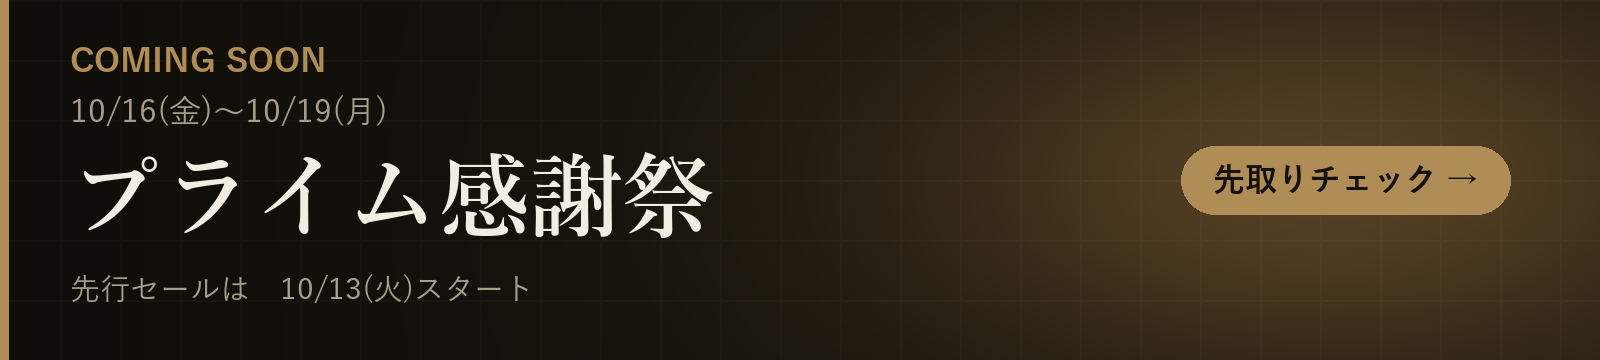
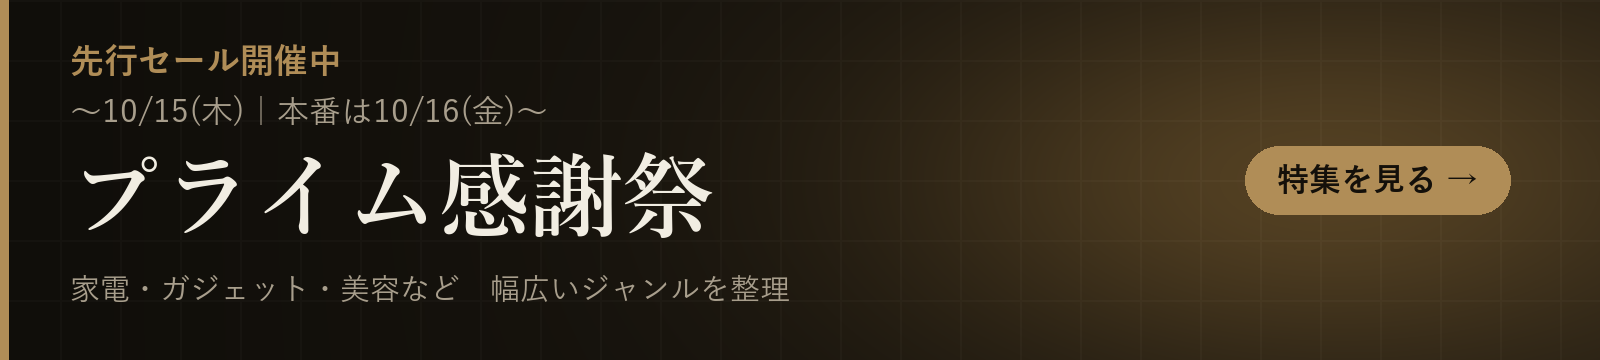
Prime phase: presale (先行セール開催中) from 10/13 00:00

diff --git a/feature-prime-appreciation-202610.html b/feature-prime-appreciation-202610.html
@@ -5,7 +5,7 @@
 <script>(function(){try{var t=localStorage.getItem('gearnote-theme');if(t==='light'||t==='dark'){document.documentElement.setAttribute('data-theme',t);}}catch(e){}})();</script>
 <meta name="viewport" content="width=device-width, initial-scale=1.0">
 <title>Amazonプライム感謝祭特集｜GEARNOTE</title>
-<meta name="description" content="Amazon「プライム感謝祭」は2026年10月16日(金)〜19日(月)に開催予定（先行セールは10月13日(火)から）。今のうちにやっておくこと、過去の開催日、家電・ガジェット・美容・日用品・食品・ベビー・ペットなど幅広いジャンルの商品をGEARNOTEがピックアップして紹介します。">
+<meta name="description" content="Amazonプライム感謝祭の先行セールが開催中です（10月13日〜15日）。本番は10月16日(金)〜19日(月)。家電・ガジェット・美容・日用品・食品・ベビー・ペットなど幅広いジャンルの商品をGEARNOTEがピックアップして紹介します。">
 <meta name="robots" content="index, follow">
 <link rel="icon" type="image/svg+xml" href="favicon.svg">
 <link rel="icon" type="image/png" href="favicon-32.png">
@@ -19,14 +19,14 @@
 <meta property="og:type" content="website">
 <meta property="og:site_name" content="GEARNOTE">
 <meta property="og:title" content="Amazonプライム感謝祭特集｜GEARNOTE">
-<meta property="og:description" content="Amazon「プライム感謝祭」は2026年10月16日(金)〜19日(月)に開催予定（先行セールは10月13日(火)から）。今のうちにやっておくこと、過去の開催日、家電・ガジェット・美容・日用品・食品・ベビー・ペットなど幅広いジャンルの商品をGEARNOTEがピックアップして紹介します。">
+<meta property="og:description" content="Amazonプライム感謝祭の先行セールが開催中です（10月13日〜15日）。本番は10月16日(金)〜19日(月)。家電・ガジェット・美容・日用品・食品・ベビー・ペットなど幅広いジャンルの商品をGEARNOTEがピックアップして紹介します。">
 <meta property="og:url" content="https://gearnote.net/feature-prime-appreciation-202610">
 <link rel="canonical" href="https://gearnote.net/feature-prime-appreciation-202610">
 <link rel="alternate" type="application/rss+xml" title="GEARNOTE" href="https://gearnote.net/feed.xml">
 <meta property="og:image" content="https://gearnote.net/og-image.png">
 <meta name="twitter:card" content="summary_large_image">
 <meta name="twitter:title" content="Amazonプライム感謝祭特集｜GEARNOTE">
-<meta name="twitter:description" content="Amazon「プライム感謝祭」は2026年10月16日(金)〜19日(月)に開催予定（先行セールは10月13日(火)から）。今のうちにやっておくこと、過去の開催日、家電・ガジェット・美容・日用品・食品・ベビー・ペットなど幅広いジャンルの商品をGEARNOTEがピックアップして紹介します。">
+<meta name="twitter:description" content="Amazonプライム感謝祭の先行セールが開催中です（10月13日〜15日）。本番は10月16日(金)〜19日(月)。家電・ガジェット・美容・日用品・食品・ベビー・ペットなど幅広いジャンルの商品をGEARNOTEがピックアップして紹介します。">
 <meta name="twitter:image" content="https://gearnote.net/og-image.png">
 <link rel="preconnect" href="https://fonts.googleapis.com">
 <link href="https://fonts.googleapis.com/css2?family=Noto+Sans+JP:wght@400;500;700;900&family=Shippori+Mincho:wght@500;600;800&family=Cormorant+Garamond:wght@600;700&display=swap" rel="stylesheet">
@@ -63,17 +63,17 @@
   <div class="wrap">
     <div class="section-head" style="margin-bottom:16px;">
       <div>
-        <span class="tag">Coming Soon</span>
+        <span class="tag">先行セール開催中</span>
         <h1>Amazon「プライム感謝祭」特集<br>家電・ガジェット・美容 ピックアップ</h1>
-        <p class="desc">開催期間：2026年10月16日(金)〜10月19日(月)／先行セール：10月13日(火)スタート（2026年9月24日時点のAmazonの案内）</p>
+        <p class="desc">先行セール開催中：2026年10月13日(火)0時〜10月15日(木)23時59分／本番：10月16日(金)〜10月19日(月)（Amazonの案内より）</p>
         <p class="pd-byline">執筆・確認：<a href="about.html#author">GEARNOTE運営（H＆C）</a></p>
       </div>
     </div>
 
     <div class="legal" style="margin-bottom:24px; padding-top:0; padding-bottom:0;">
 
-      <p style="display:inline-block; padding:6px 16px; border:1px solid var(--gold, #b08d57); border-radius:999px; font-weight:700; letter-spacing:.14em;">🔜 COMING SOON</p>
-      <p><strong>現在はまだ開催前です。</strong>Amazonの案内によると、プライム感謝祭は<strong>10月16日(金)〜10月19日(月)</strong>、先行セールは<strong>10月13日(火)</strong>スタートです。詳細が更新された場合はこのページも更新します。今のうちにチェックしておきたい商品と準備をまとめています。</p>
+      <p style="display:inline-block; padding:6px 16px; border:1px solid var(--gold, #b08d57); border-radius:999px; font-weight:700; letter-spacing:.14em;">🔥 先行セール開催中</p>
+      <p><strong>先行セールは10月15日(木)23時59分までです。</strong>本番のプライム感謝祭は<strong>10月16日(金)0時〜10月19日(月)23時59分</strong>です。セール対象かどうか、価格・ポイントの条件は、必ず各商品のAmazon商品ページと、Amazonのキャンペーンページでご確認ください。</p>
       <h2 style="margin-top:12px;">今年の発表内容（Amazon公式より）</h2>
       <ul>
         <li>開催期間：<strong>10月16日(金)0時〜10月19日(月)23時59分</strong>（4日間）</li>

diff --git a/features.html b/features.html
@@ -135,9 +135,9 @@
         <a href="feature-furusato-nozei-2026.html" class="btn btn-ghost btn-sm" style="display:inline-flex;width:auto;">特集を見る</a>
       </div>
       <div class="cta-box" style="text-align:left; padding:22px 26px; margin:0 0 16px;">
-        <p style="margin:0 0 6px;"><span class="tag" style="">Coming Soon</span> <span style="color:var(--text-muted);font-size:0.85rem;">2026年10月16日(金)〜19日(月)（先行セール10月13日(火)〜）</span></p>
+        <p style="margin:0 0 6px;"><span class="tag" style="">先行セール開催中</span> <span style="color:var(--text-muted);font-size:0.85rem;">先行セール 10月13日(火)〜15日(木)／本番 10月16日(金)〜19日(月)</span></p>
         <h2 style="font-size:1.15rem;margin:0 0 8px;"><a href="feature-prime-appreciation-202610.html">Amazonプライム感謝祭特集</a></h2>
-        <p style="margin:0 0 12px;color:var(--text-muted);font-size:0.92rem;">Amazonのプライム感謝祭に向けて、家電・ガジェット・美容・食品・ベビー・ペットなど幅広いジャンルの商品をピックアップした特集です。開催期間は10月16日(金)〜19日(月)、先行セールは10月13日(火)からと案内されています。</p>
+        <p style="margin:0 0 12px;color:var(--text-muted);font-size:0.92rem;">Amazonプライム感謝祭の先行セールが開催中です。家電・ガジェット・美容・食品・ベビー・ペットなど幅広いジャンルの商品をピックアップした特集です。本番は10月16日(金)〜19日(月)と案内されています。</p>
         <a href="feature-prime-appreciation-202610.html" class="btn btn-ghost btn-sm" style="display:inline-flex;width:auto;">特集を見る</a>
       </div>
       <div class="cta-box" style="text-align:left; padding:22px 26px; margin:0 0 16px; opacity:0.85;">

diff --git a/index.html b/index.html
@@ -79,7 +79,7 @@
   <a href="feature-prime-appreciation-202610.html" class="event-banner" style="margin-bottom:14px;">
     <picture>
       <source media="(max-width: 760px)" srcset="card-prime-appreciation-202610.png">
-      <img src="card-prime-appreciation-wide-202610.png" alt="Coming Soon｜Amazonプライム感謝祭特集（10月16日(金)〜19日(月)開催予定・先行セールは10月13日(火)から）" loading="eager">
+      <img src="card-prime-appreciation-wide-202610.png" alt="先行セール開催中｜Amazonプライム感謝祭特集（先行セールは10月15日(木)まで・本番は10月16日(金)〜19日(月)）" loading="eager">
     </picture>
   </a>
   <div class="event-banner-row">
